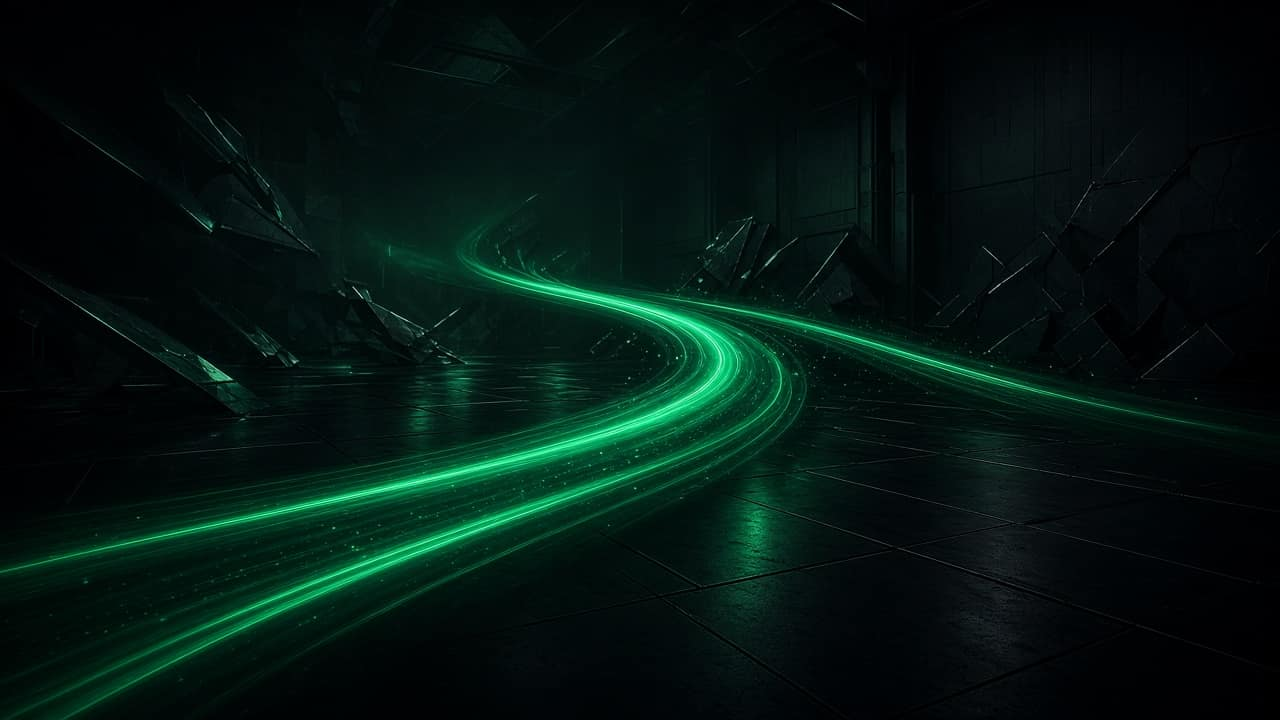
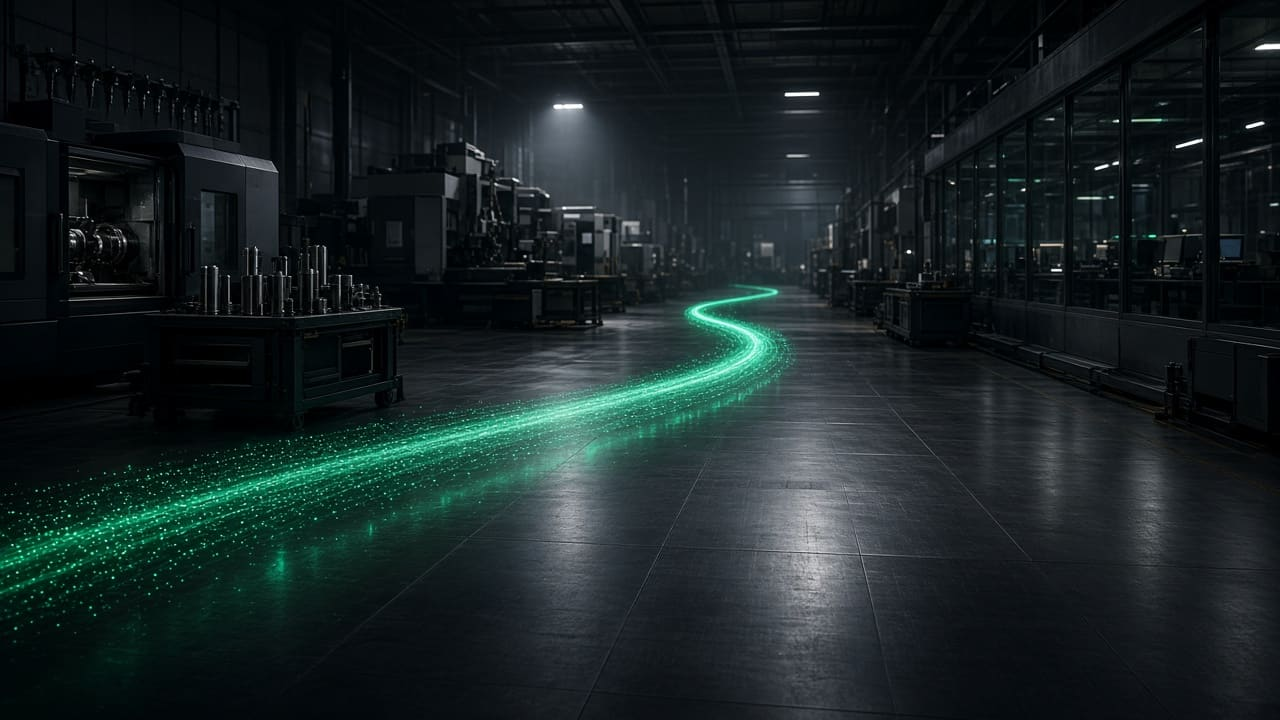
Refresh curiosity strip, fix plan copy, drop demos CTA from book page.

diff --git a/src/pages/Book.tsx b/src/pages/Book.tsx
@@ -5,8 +5,7 @@ import SEOManager from '@/components/SEOManager';
 import { useTranslation } from '@/components/LanguageProvider';
 import { motion } from 'framer-motion';
 import { InlineWidget } from 'react-calendly';
-import { ArrowRight, Search, PenTool, Rocket } from "lucide-react";
-import { DEMO_HUB_URL } from "@/data/trades";
+import { Search, PenTool, Rocket } from "lucide-react";
 
 const Book = () => {
     const { lang } = useTranslation();
@@ -144,26 +143,6 @@ const Book = () => {
                     </div>
                 </motion.div>
 
-                <motion.div
-                    className="w-full max-w-5xl px-4 mx-auto relative z-10 mt-8 mb-12"
-                    {...revealProps}
-                >
-                    <div className="border border-[#27272A] bg-zinc-950/40 p-6 text-center md:p-8">
-                        <p className="text-base font-medium text-zinc-300 md:text-lg">
-                            {lang === "en"
-                              ? "Curious to see it in action? Check out our 11 demos."
-                              : "¿Curioso de verlo en acción? Mira nuestras 11 demos."}
-                        </p>
-                        <a
-                            href={DEMO_HUB_URL}
-                            target="_blank"
-                            rel="noopener noreferrer"
-                            className="mt-4 inline-flex items-center gap-1 text-sm font-bold text-[#10b981] underline-offset-4 hover:underline"
-                        >
-                            {lang === "en" ? "Open demos" : "Abrir demos"} <ArrowRight className="h-4 w-4" />
-                        </a>
-                    </div>
-                </motion.div>
             </section>
 
             <Footer />

diff --git a/src/components/sections/HowItWorks.tsx b/src/components/sections/HowItWorks.tsx
@@ -20,8 +20,8 @@ const HowItWorks = () => {
             icon: LineChart,
             title: lang === 'en' ? "Get a Custom Plan" : "Obtenga un Plan",
             description: lang === 'en'
-                ? "We make a custom plan to get you more leads and automate the boring stuff."
-                : "Hacemos un plan a medida para obtener más clientes y automatizar las tareas repetitivas."
+                ? "We make you a custom plan to get you more leads and automate the boring stuff."
+                : "Le hacemos un plan a medida para obtener más clientes y automatizar las tareas repetitivas."
         },
         {
             badge: lang === 'en' ? "Step 3" : "Paso 3",
